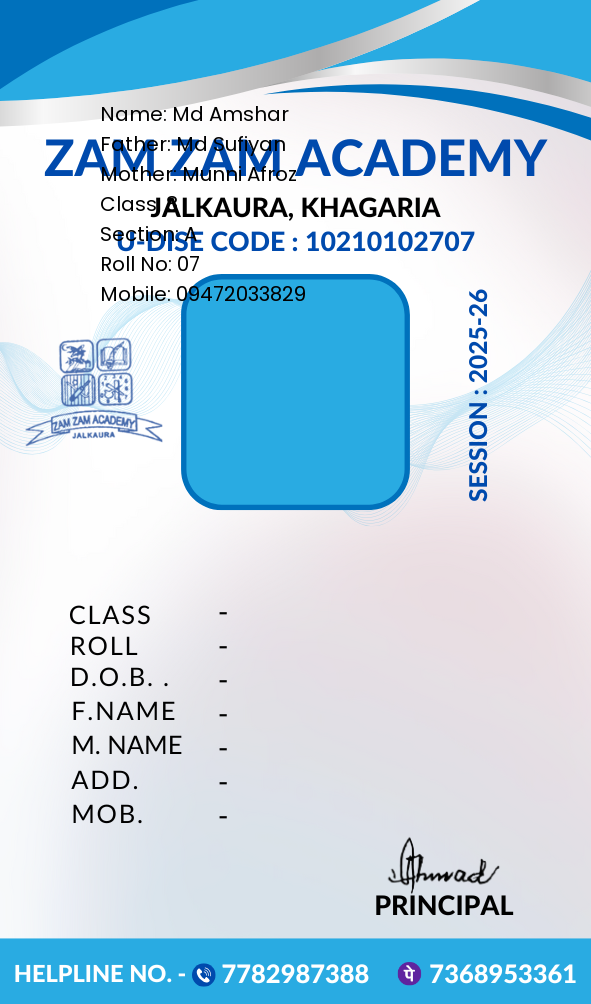
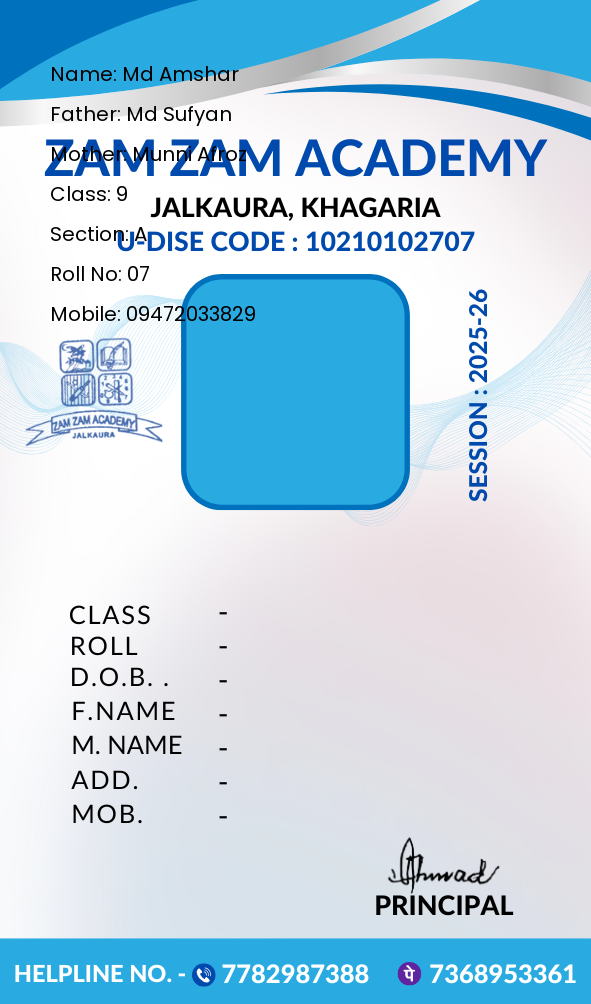
add edit and delete features

Changed region(s): [[0.0914, 0.0618, 0.5178, 0.3396]]

diff --git a/id_card_app/templates/id_card_app/confirm_delete.html b/id_card_app/templates/id_card_app/confirm_delete.html
@@ -1,0 +1,93 @@
+{% extends 'id_card_app/base.html' %}
+
+{% block title %}Confirm Delete - ID Card Generator{% endblock %}
+
+{% block content %}
+<div class="card">
+    <h2>Confirm Deletion</h2>
+    
+    <div class="confirm-delete-content">
+        <div class="text-center mb-2">
+            <p>Are you sure you want to delete the ID card for <strong>{{ student.name }}</strong>?</p>
+            <p class="warning-text">This action cannot be undone.</p>
+        </div>
+        
+        <img src="{{ student.image.url }}" alt="{{ student.name }}'s ID Card" class="confirm-delete-img">
+        
+        <div class="student-details">
+            <p><strong>Name:</strong> {{ student.name }}</p>
+            <p><strong>Class:</strong> {{ student.student_class }} {% if student.section %}- {{ student.section }}{% endif %}</p>
+            <p><strong>Roll No:</strong> {{ student.roll_no }}</p>
+        </div>
+        
+        <form method="post" class="mt-2">
+            {% csrf_token %}
+            <div class="confirm-buttons">
+                <button type="submit" class="btn btn-delete">Delete</button>
+                <a href="{% url 'view_all' %}" class="btn btn-cancel">Cancel</a>
+            </div>
+        </form>
+    </div>
+</div>
+{% endblock %}
+
+{% block extra_css %}
+<style>
+    .confirm-delete-content {
+        max-width: 500px;
+        margin: 0 auto;
+    }
+    
+    .confirm-delete-img {
+        max-width: 300px;
+        display: block;
+        margin: 1rem auto;
+        border: 1px solid #eee;
+        border-radius: var(--border-radius);
+    }
+    
+    .warning-text {
+        color: #e74c3c;
+        font-weight: 500;
+        margin-top: 0.5rem;
+    }
+    
+    .student-details {
+        background-color: #f8f9fa;
+        padding: 1rem;
+        border-radius: var(--border-radius);
+        margin: 1rem 0;
+    }
+    
+    .student-details p {
+        margin-bottom: 0.5rem;
+    }
+    
+    .confirm-buttons {
+        display: flex;
+        gap: 1rem;
+        margin-top: 1.5rem;
+    }
+    
+    .btn-delete, .btn-cancel {
+        flex: 1;
+        text-align: center;
+    }
+    
+    .btn-delete {
+        background-color: #e74c3c;
+    }
+    
+    .btn-delete:hover {
+        background-color: #c0392b;
+    }
+    
+    .btn-cancel {
+        background-color: #7f8c8d;
+    }
+    
+    .btn-cancel:hover {
+        background-color: #6c7a7a;
+    }
+</style>
+{% endblock %}

diff --git a/id_card_app/templates/id_card_app/view_all.html b/id_card_app/templates/id_card_app/view_all.html
@@ -16,7 +16,13 @@
                         <h3>{{ student.name }}</h3>
                         <p><strong>Class:</strong> {{ student.student_class }} {% if student.section %}- {{ student.section }}{% endif %}</p>
                         <p><strong>Roll No:</strong> {{ student.roll_no }}</p>
-                        <a href="{{ student.image.url }}" download class="btn btn-block mt-2">Download</a>
+                        <div class="action-buttons">
+                            <a href="{{ student.image.url }}" download class="btn btn-block mt-2 mb-1">Download</a>
+                            <div class="btn-group">
+                                <a href="{% url 'edit_id_card' student.id %}" class="btn btn-edit">Edit</a>
+                                <a href="{% url 'delete_id_card' student.id %}" class="btn btn-delete">Delete</a>
+                            </div>
+                        </div>
                     </div>
                 </div>
             {% endfor %}
@@ -28,4 +34,36 @@
         </div>
     {% endif %}
 </div>
+{% endblock %}
+
+{% block extra_css %}
+<style>
+    .action-buttons {
+        margin-top: 1rem;
+    }
+    
+    .btn-group {
+        display: flex;
+        gap: 0.5rem;
+        margin-top: 0.5rem;
+    }
+    
+    .btn-edit, .btn-delete {
+        flex: 1;
+        padding: 0.6rem 0;
+        font-size: 0.9rem;
+    }
+    
+    .btn-edit {
+        background-color: #3498db;
+    }
+    
+    .btn-delete {
+        background-color: #e74c3c;
+    }
+    
+    .btn-delete:hover {
+        background-color: #c0392b;
+    }
+</style>
 {% endblock %}

diff --git a/id_card_app/templates/id_card_app/form.html b/id_card_app/templates/id_card_app/form.html
@@ -1,16 +1,38 @@
 {% extends 'id_card_app/base.html' %}
 
-{% block title %}New ID Card - ID Card Generator{% endblock %}
+{% block title %}{% if edit_mode %}Edit ID Card{% else %}New ID Card{% endif %} - ID Card Generator{% endblock %}
 
 {% block content %}
 <div class="card">
-    <h2>Create New ID Card</h2>
-    <p class="text-center mb-2">Fill in the student details to generate an ID card</p>
+    <h2>{% if edit_mode %}Edit ID Card{% else %}Create New ID Card{% endif %}</h2>
+    <p class="text-center mb-2">{% if edit_mode %}Update the student details{% else %}Fill in the student details to generate an ID card{% endif %}</p>
     
     <form method="post" enctype="multipart/form-data">
         {% csrf_token %}
         {{ form.as_p }}
-        <button type="submit" class="btn btn-block">Generate ID Card</button>
+        <button type="submit" class="btn btn-block">
+            {% if edit_mode %}Update ID Card{% else %}Generate ID Card{% endif %}
+        </button>
     </form>
+    
+    {% if edit_mode %}
+    <div class="text-center mt-2">
+        <a href="{% url 'view_all' %}" class="btn-link">Cancel and return to all ID cards</a>
+    </div>
+    {% endif %}
 </div>
+{% endblock %}
+
+{% block extra_css %}
+<style>
+    .btn-link {
+        color: var(--primary-color);
+        text-decoration: none;
+        font-weight: 500;
+    }
+    
+    .btn-link:hover {
+        text-decoration: underline;
+    }
+</style>
 {% endblock %}

diff --git a/id_card_app/views.py b/id_card_app/views.py
@@ -1,8 +1,8 @@
-from django.shortcuts import render, redirect
+from django.shortcuts import render, redirect, get_object_or_404
 from .forms import StudentForm
 from .models import Student
 from PIL import Image, ImageDraw, ImageFont
-from django.http import FileResponse
+from django.http import FileResponse, HttpResponse
 import os
 from django.conf import settings
 
@@ -15,35 +15,35 @@ def new_id_card(request):
         if form.is_valid():
             student = form.save(commit=False)
 
+            # Get the template image path
             template_path = os.path.join(settings.BASE_DIR, 'id_card_app/static/zza_idcardTemplate.png')
-            # Load template
-            template = Image.open("zza_idcardTemplate.png").convert("RGBA")
-            img = Image.open(template_path)
+            
+            # Load template correctly
+            template = Image.open(template_path).convert("RGBA")
             draw = ImageDraw.Draw(template)
 
+            # Get the font
             font_path = os.path.join(settings.BASE_DIR, 'id_card_app/static/fonts/Poppins-Regular.ttf')
             font = ImageFont.truetype(font_path, 20)
 
-            # Adjusted positions (example values)
-            draw.text((50, 60), f"Name: {data['name']}", font=font, fill="black")
-            draw.text((50, 100), f"Father: {data['father']}", font=font, fill="black")
-            draw.text((50, 140), f"Mother: {data['mother']}", font=font, fill="black")
-            draw.text((50, 180), f"Class: {data['class']}", font=font, fill="black")
-            draw.text((50, 220), f"Section: {data['section']}", font=font, fill="black")
-            draw.text((50, 260), f"Roll No: {data['roll']}", font=font, fill="black")
-            draw.text((50, 300), f"Mobile: {data['mobile']}", font=font, fill="black")
+            # Draw text with student data from form
+            draw.text((50, 60), f"Name: {student.name}", font=font, fill="black")
+            draw.text((50, 100), f"Father: {student.father_name}", font=font, fill="black")
+            draw.text((50, 140), f"Mother: {student.mother_name}", font=font, fill="black")
+            draw.text((50, 180), f"Class: {student.student_class}", font=font, fill="black")
+            draw.text((50, 220), f"Section: {student.section}", font=font, fill="black")
+            draw.text((50, 260), f"Roll No: {student.roll_no}", font=font, fill="black")
+            draw.text((50, 300), f"Mobile: {student.mobile}", font=font, fill="black")
 
-            
-            # Save as PNG or JPG
-            output_path = "id_card_output.png"
-            template.save(output_path)
-            print(f"Saved to: {output_path}")
-
+            # Create filename and save path
             filename = f"{student.name}_{student.roll_no}.png"
             save_path = os.path.join(settings.MEDIA_ROOT, 'cards', filename)
             os.makedirs(os.path.dirname(save_path), exist_ok=True)
-            img.save(save_path)
+            
+            # Save the generated ID card
+            template.save(save_path)
 
+            # Update student record with image path
             student.image = f"cards/{filename}"
             student.save()
             return redirect('view_all')
@@ -55,6 +55,61 @@ def view_all(request):
     students = Student.objects.all()
     return render(request, 'id_card_app/view_all.html', {'students': students})
 
+def edit_id_card(request, student_id):
+    student = get_object_or_404(Student, id=student_id)
+    
+    if request.method == 'POST':
+        form = StudentForm(request.POST, instance=student)
+        if form.is_valid():
+            student = form.save(commit=False)
+            
+            # Regenerate the ID card image
+            template_path = os.path.join(settings.BASE_DIR, 'id_card_app/static/zza_idcardTemplate.png')
+            template = Image.open(template_path).convert("RGBA")
+            draw = ImageDraw.Draw(template)
+
+            font_path = os.path.join(settings.BASE_DIR, 'id_card_app/static/fonts/Poppins-Regular.ttf')
+            font = ImageFont.truetype(font_path, 20)
+
+            # Draw text on the template with student data
+            draw.text((50, 60), f"Name: {student.name}", font=font, fill="black")
+            draw.text((50, 100), f"Father: {student.father_name}", font=font, fill="black")
+            draw.text((50, 140), f"Mother: {student.mother_name}", font=font, fill="black")
+            draw.text((50, 180), f"Class: {student.student_class}", font=font, fill="black")
+            draw.text((50, 220), f"Section: {student.section}", font=font, fill="black")
+            draw.text((50, 260), f"Roll No: {student.roll_no}", font=font, fill="black")
+            draw.text((50, 300), f"Mobile: {student.mobile}", font=font, fill="black")
+
+            # Save the updated ID card
+            filename = f"{student.name}_{student.roll_no}.png"
+            save_path = os.path.join(settings.MEDIA_ROOT, 'cards', filename)
+            os.makedirs(os.path.dirname(save_path), exist_ok=True)
+            template.save(save_path)
+
+            student.image = f"cards/{filename}"
+            student.save()
+            return redirect('view_all')
+    else:
+        form = StudentForm(instance=student)
+    
+    return render(request, 'id_card_app/form.html', {'form': form, 'edit_mode': True})
+
+def delete_id_card(request, student_id):
+    student = get_object_or_404(Student, id=student_id)
+    
+    if request.method == 'POST':
+        # Delete the associated image file if it exists
+        if student.image:
+            image_path = os.path.join(settings.MEDIA_ROOT, student.image.name)
+            if os.path.exists(image_path):
+                os.remove(image_path)
+        
+        # Delete the student record
+        student.delete()
+        return redirect('view_all')
+    
+    return render(request, 'id_card_app/confirm_delete.html', {'student': student})
+
 def download_id_card(request):
     file_path = os.path.join('media', 'id_cards', 'generated_card.png')  # Adjust path
     if os.path.exists(file_path):
@@ -62,10 +117,10 @@ def download_id_card(request):
     else:
         return HttpResponse("ID Card not found.")
     
-    def submit_form(request):
-        if request.method == 'POST':
+def submit_form(request):
+    if request.method == 'POST':
         # Save student data + generate ID card image
         # Example: save_data_and_generate_card()
 
         # Redirect to download
-             return redirect('download_id_card')
+        return redirect('download_id_card')

diff --git a/id_card_app/urls.py b/id_card_app/urls.py
@@ -5,5 +5,7 @@ urlpatterns = [
     path('', views.home, name='home'),
     path('new/', views.new_id_card, name='new_id_card'),
     path('view/', views.view_all, name='view_all'),
+    path('edit/<int:student_id>/', views.edit_id_card, name='edit_id_card'),
+    path('delete/<int:student_id>/', views.delete_id_card, name='delete_id_card'),
     path('download-id-card/', views.download_id_card, name='download_id_card'),
 ]
